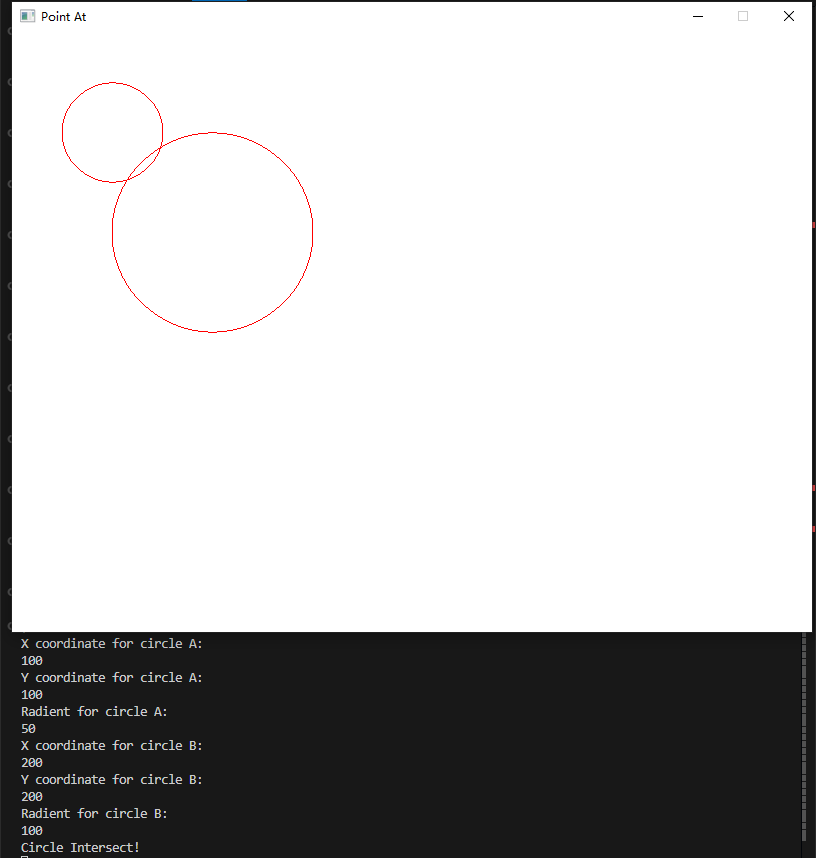
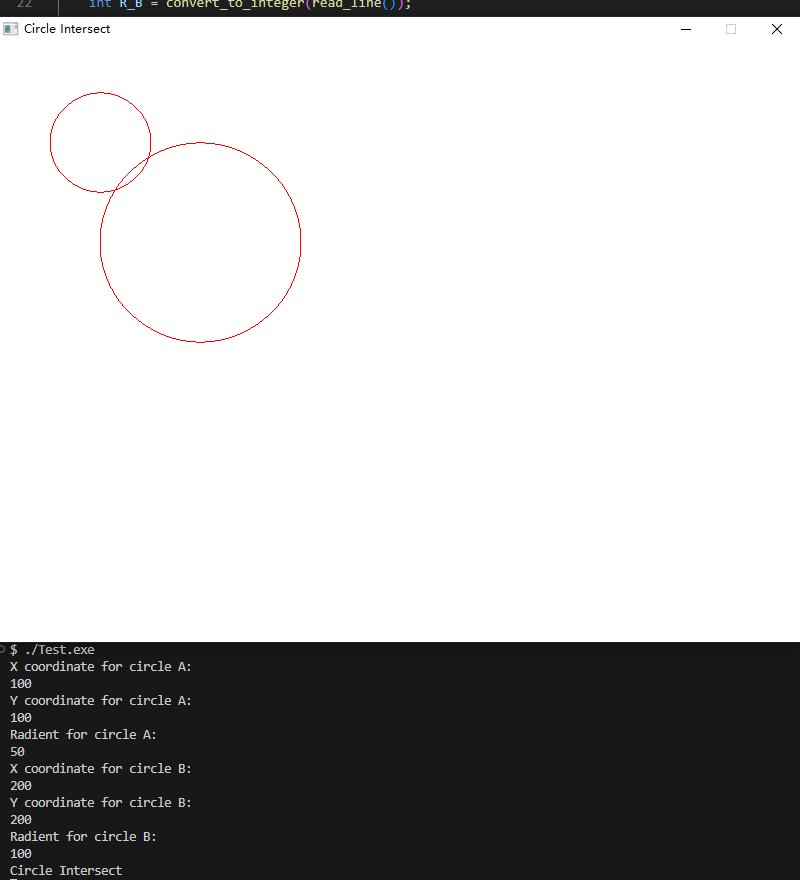
change base on the PR

diff --git a/public/usage-examples/geometry/circles_intersect/circles_intersect-1-simple-oop.cs b/public/usage-examples/geometry/circles_intersect/circles_intersect-1-simple-oop.cs
@@ -1,12 +1,12 @@
 using SplashKitSDK;
 
-namespace CircleIntersect
+namespace CircleIntersectExample
 {
     public class Program
     {
         public static void Main()
         {
-            //Read the data for Circle A
+            // Read the data for Circle A
             SplashKit.WriteLine("X coordinate for circle A: ");
             int X_A = SplashKit.ConvertToInteger(SplashKit.ReadLine());
             SplashKit.WriteLine("Y coordinate for circle A: ");
@@ -14,7 +14,7 @@ namespace CircleIntersect
             SplashKit.WriteLine("Radient for circle A: ");
             int R_A = SplashKit.ConvertToInteger(SplashKit.ReadLine());
 
-            //Create circle A base on the data
+            // Create circle A based on the user's data
             Circle A = SplashKit.CircleAt(X_A, Y_A, R_A);
 
             //Read the data for Circle B
@@ -25,24 +25,24 @@ namespace CircleIntersect
             SplashKit.WriteLine("Radient for circle B: ");
             int R_B = SplashKit.ConvertToInteger(SplashKit.ReadLine());
 
-            //Create circle B base on the data
+            // Create circle B based on the user's data
             Circle B = SplashKit.CircleAt(X_B, Y_B, R_B);
 
-            //Detect if the circle intersect or not
+            // Detect if the circles intersect
             if (SplashKit.CirclesIntersect(A, B))
             {
-                SplashKit.WriteLine("Circle Intersect!");
+                SplashKit.WriteLine("The circles intersect!");
             }
             else
             {
-                SplashKit.WriteLine("Circle Not Intersect!");
+                SplashKit.WriteLine("The circles do not intersect!");
             }
 
-            //Create a window 
+            // Create a window 
             SplashKit.OpenWindow("Circle Intersect", 800, 600);
             SplashKit.ClearScreen();
 
-            //Draw the circle base on the data give by user
+            // Draw the circles based on the data given by user
             SplashKit.DrawCircle(Color.Red, X_A, Y_A, R_A);
             SplashKit.DrawCircle(Color.Red, X_B, Y_B, R_B);
 

diff --git a/public/usage-examples/geometry/circles_intersect/circles_intersect-1-simple.cpp b/public/usage-examples/geometry/circles_intersect/circles_intersect-1-simple.cpp
@@ -2,7 +2,7 @@
 
 int main()
 {   
-    //Read the data for Circle A
+    // Read the data for Circle A
     write_line("X coordinate for circle A: ");
     int X_A = convert_to_integer(read_line());
     write_line("Y coordinate for circle A: ");
@@ -10,10 +10,10 @@ int main()
     write_line("Radient for circle A: ");
     int R_A = convert_to_integer(read_line());
     
-    //Create circle A base on the data
+    // Create circle A based on the user's data
     circle A = circle_at(X_A, Y_A, R_A);
 
-    //Read the data for Circle B
+    // Read the data for Circle B
     write_line("X coordinate for circle B: ");
     int X_B = convert_to_integer(read_line());
     write_line("Y coordinate for circle B: ");
@@ -21,23 +21,23 @@ int main()
     write_line("Radient for circle B: ");
     int R_B = convert_to_integer(read_line());
 
-    //Create circle B base on the data
+    // Create circle B based on the user's data
     circle B = circle_at(X_B, Y_B , R_B);
     
-    //Detect if the circle intersect or not
+    // Detect if the circles intersect
     if(circles_intersect(A, B))
     {
-        write_line("Circle Intersect");
+        write_line("The circles intersect!");
     }
     else{
-        write_line("Circle Not Intersect");
+        write_line("The circles do not intersect!");
     }
 
-    //Create a window 
+    // Create a window 
     open_window("Circle Intersect", 800, 600);
     clear_screen();
 
-    //Draw the circle base on the data give by user
+    // Draw the circles based on the data given by user
     draw_circle(COLOR_RED, X_A, Y_A, R_A);
     draw_circle(COLOR_RED, X_B, Y_B, R_B);
 

diff --git a/public/usage-examples/geometry/circles_intersect/circles_intersect-1-simple-top-level.cs b/public/usage-examples/geometry/circles_intersect/circles_intersect-1-simple-top-level.cs
@@ -1,7 +1,7 @@
 using SplashKitSDK;
 using static SplashKitSDK.SplashKit;
 
-//Read the data for Circle A
+// Read the data for Circle A
 WriteLine("X coordinate for circle A: ");
 int X_A = ConvertToInteger(ReadLine());
 WriteLine("Y coordinate for circle A: ");
@@ -9,10 +9,10 @@ int Y_A = ConvertToInteger(ReadLine());
 WriteLine("Radient for circle A: ");
 int R_A = ConvertToInteger(ReadLine());
 
-//Create circle A base on the data
+// Create circle A based on the user's data
 Circle A = CircleAt(X_A, Y_A, R_A);
 
-//Read the data for Circle B
+// Read the data for Circle B
 WriteLine("X coordinate for circle B: ");
 int X_B = ConvertToInteger(ReadLine());
 WriteLine("Y coordinate for circle B: ");
@@ -20,24 +20,24 @@ int Y_B = ConvertToInteger(ReadLine());
 WriteLine("Radient for circle B: ");
 int R_B = ConvertToInteger(ReadLine());
 
-//Create circle B base on the data
+// Create circle B based on the user's data
 Circle B = CircleAt(X_B, Y_B, R_B);
 
-//Detect if the circle intersect or not
+// Detect if the circles intersect
 if (CirclesIntersect(A, B))
 {
-    WriteLine("Circle Intersect!");
+    WriteLine("The circles intersect!");
 }
 else
 {
-    WriteLine("Circle Not Intersect!");
+    WriteLine("The circles do not intersect!");
 }
 
-//Create a window 
-OpenWindow("Point At", 800, 600);
+// Create a window 
+OpenWindow("Circle Intersect", 800, 600);
 ClearScreen();
 
-//Draw the circle base on the data give by user
+// Draw the circles based on the data given by user
 DrawCircle(Color.Red, X_A, Y_A, R_A);
 DrawCircle(Color.Red, X_B, Y_B, R_B);
 

diff --git a/public/usage-examples/geometry/circles_intersect/circles_intersect-1-simple.py b/public/usage-examples/geometry/circles_intersect/circles_intersect-1-simple.py
@@ -8,7 +8,7 @@ Y_A = convert_to_integer(read_line())
 write_line("Radient for circle A: ")
 R_A = convert_to_integer(read_line())
 
-# Create circle A base on the data
+# Create circle A based on the user's data
 A = circle_at(point_at(X_A, Y_A), R_A)
 
 # Read the data for Circle B
@@ -19,20 +19,20 @@ Y_B = convert_to_integer(read_line())
 write_line("Radient for circle B: ")
 R_B = convert_to_integer(read_line())
 
-# Create circle B base on the data
+# Create circle B based on the user's data
 B = circle_at(point_at(X_B, Y_B), R_B)
 
-# Detect if the circle intersect or not
+# Detect if the circles intersect
 if (circles_intersect(A, B)):
-    write_line("Circle Intersect")
+    write_line("The circles intersect!")
 else:
-    write_line("Circle Not Intersect")
+    write_line("The circles do not intersect!")
 
-#Create a window 
+# Create a window 
 open_window("Circle Intersect", 800, 600)
 clear_screen(color_white())
 
-#Draw the circle base on the data give by user
+# Draw the circles based on the data given by user
 draw_circle(color_red(), X_A, Y_A, R_A)
 draw_circle(color_red(), X_B, Y_B, R_B)
 
